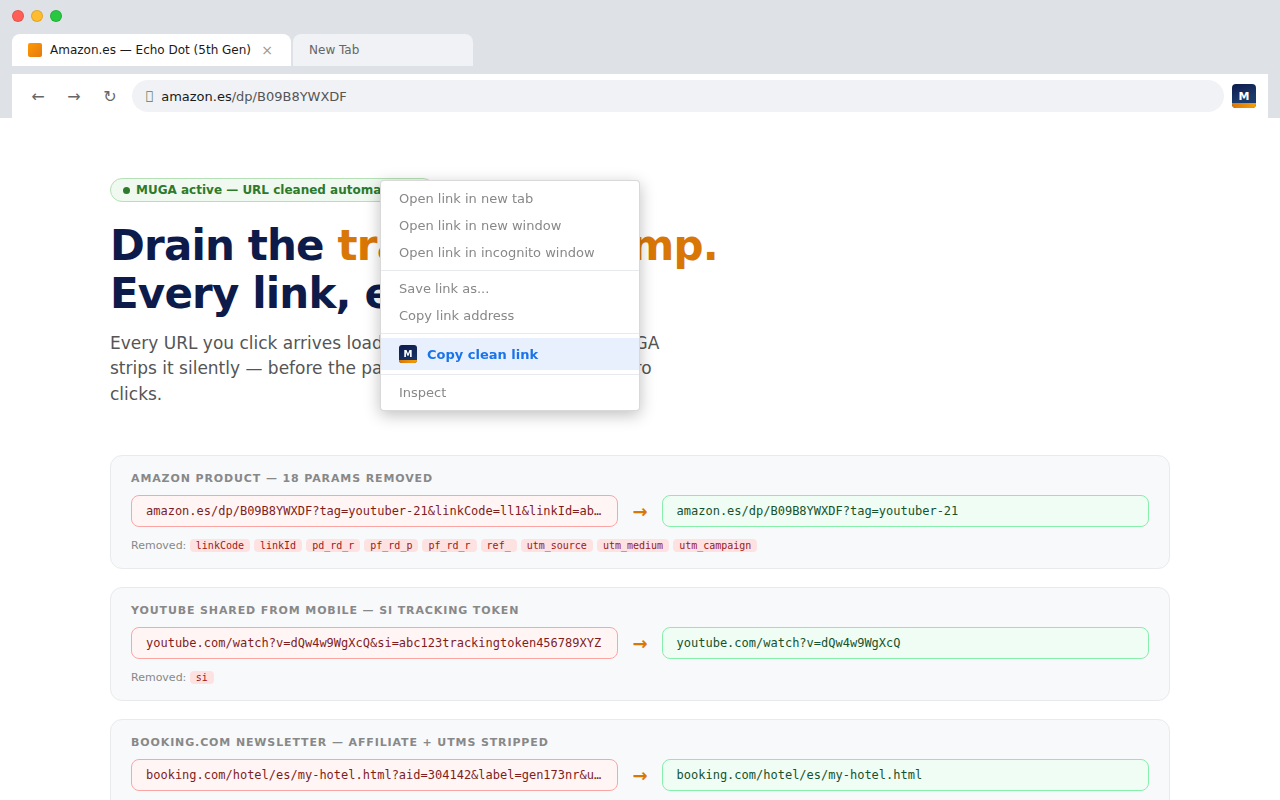
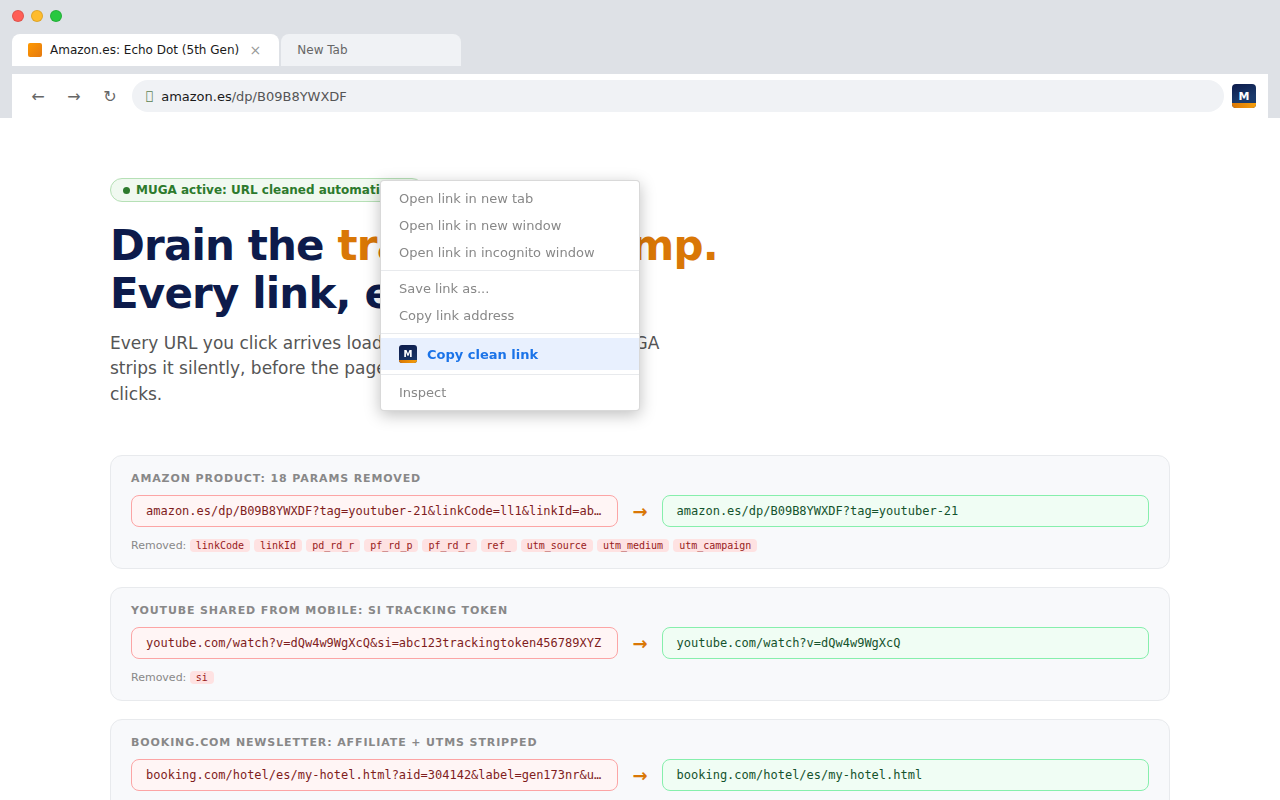
fix: update screenshot mockups and add E2E CI job (#293)
* fix: update screenshot mockups and add E2E CI job

Update stale stats in mockup HTML files (450+ params, 150+ domains,
4 languages, version 1.9.9) and add xvfb-based E2E job to CI workflow.

* fix: regenerate store and README screenshots with current stats

Update capture.mjs to use src/ instead of dist/chrome/ (no build step
needed for vanilla JS extension). Regenerate all 8 screenshots + promo
tile reflecting 450+ params, 150+ domains, 4 languages, v1.9.9.

diff --git a/tools/screenshots/ss3-options.html b/tools/screenshots/ss3-options.html
@@ -339,6 +339,8 @@
             <select class="lang-select">
               <option selected>English</option>
               <option>Español</option>
+              <option>Português</option>
+              <option>Deutsch</option>
             </select>
           </div>
         </div>
@@ -370,7 +372,7 @@
         </div>
       </div>
 
-      <div style="text-align:center;font-size:11px;color:#888;margin-top:16px;">MUGA 1.6.0</div>
+      <div style="text-align:center;font-size:11px;color:#888;margin-top:16px;">MUGA 1.9.9</div>
     </div>
   </div>
 </body>

diff --git a/tools/screenshots/promo-tile.html b/tools/screenshots/promo-tile.html
@@ -306,12 +306,12 @@
 
       <div class="stats-bar">
         <div class="stat">
-          <span class="stat-num">130+</span>
+          <span class="stat-num">450+</span>
           <span class="stat-label">tracking params</span>
         </div>
         <div class="stat-sep"></div>
         <div class="stat">
-          <span class="stat-num">54</span>
+          <span class="stat-num">150+</span>
           <span class="stat-label">domain rules</span>
         </div>
         <div class="stat-sep"></div>

diff --git a/tools/screenshots/ss2-popup.html b/tools/screenshots/ss2-popup.html
@@ -375,7 +375,7 @@
         <div class="callout-sub">MUGA stripped 9 tracking parameters before this page loaded. You pay exactly the same. The store just knows you arrived via MUGA.</div>
         <div class="callout-stats">
           <div>
-            <div class="callout-stat-val">50+</div>
+            <div class="callout-stat-val">450+</div>
             <div class="callout-stat-lbl">tracking params<br>recognized</div>
           </div>
           <div>
